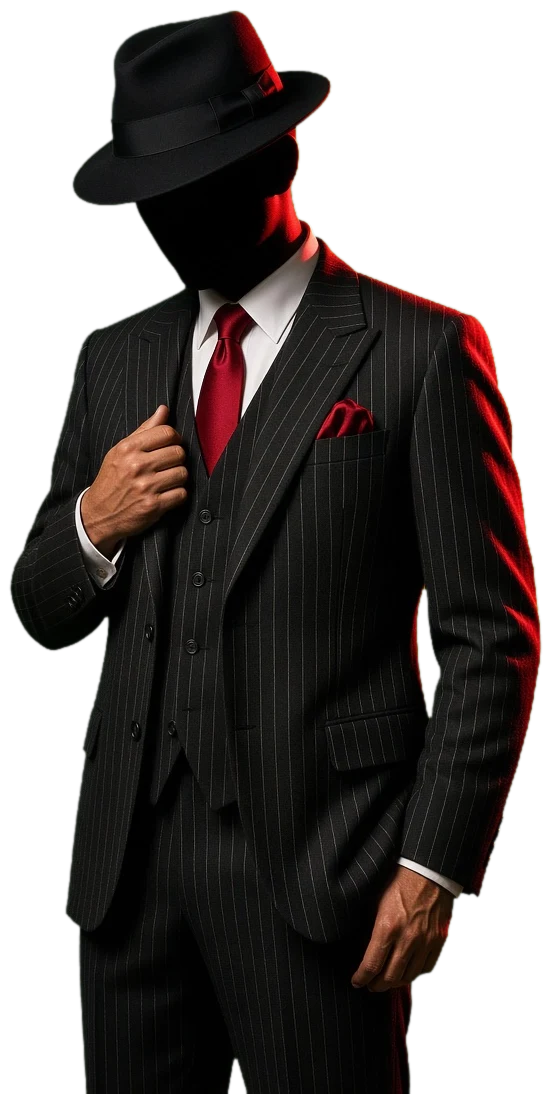
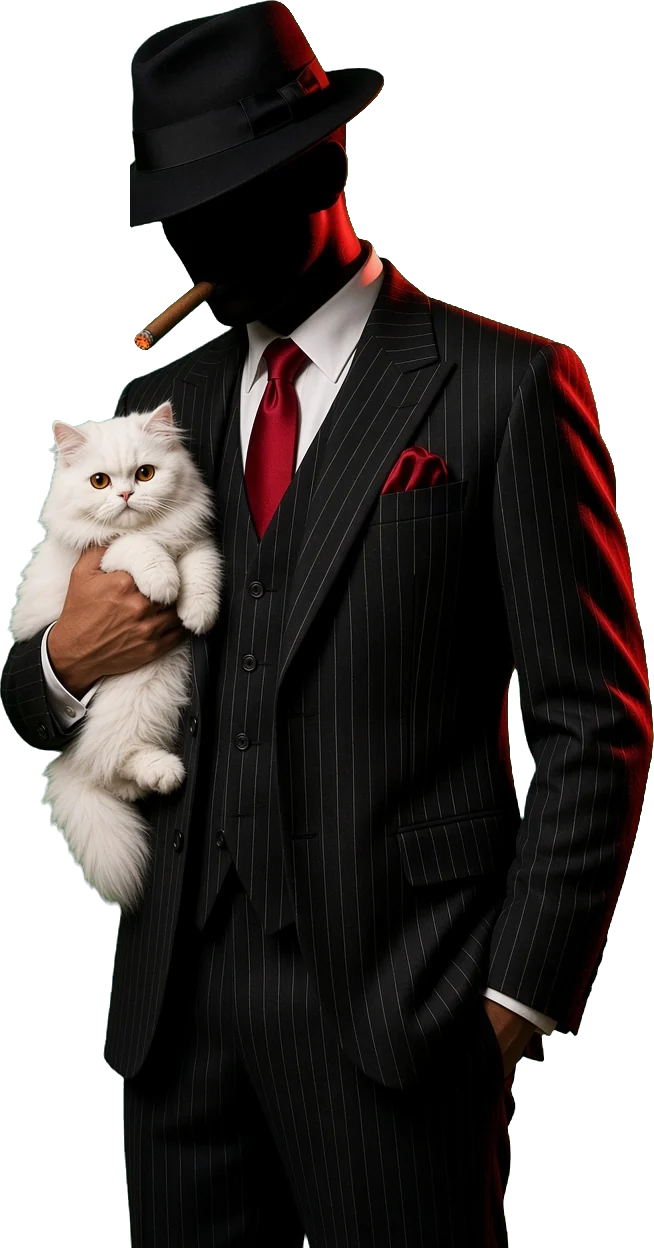
Lorenzo with cigar + Persian cat (ember, smoke, blink); Lorenzo leads the walk-in and unlocks the golden wardrobe; panel clears the host

diff --git a/src/three/Experience.tsx b/src/three/Experience.tsx
@@ -4,7 +4,7 @@ import { MeshReflectorMaterial, PerformanceMonitor } from '@react-three/drei'
 import { EffectComposer, Bloom, Noise, Vignette, DepthOfField } from '@react-three/postprocessing'
 import { BlendFunction, type DepthOfFieldEffect } from 'postprocessing'
 import * as THREE from 'three'
-import { ITEMS, STORE } from '../data'
+import { ITEMS, STORE, TAILOR } from '../data'
 import { rig, easeInOut, easeOut, clamp01, smooth, WALK_MS, walkTime } from '../rig'
 
 /* ---------------- world constants ---------------- */
@@ -363,7 +363,7 @@ function ScreenFX() {
    all the way, so the stairwell drops straight onto the rail where the wardrobe starts. */
 const SHOP_Y = 5.2, EYE = 1.5, DOOR_Z = 22, WARD_Z = 11.8, STAIR_END = 4.6, STEPS = 12
 const walkFog = { shop: new THREE.Color('#1c0507'), gold: new THREE.Color('#1d1406'), vault: new THREE.Color('#050303') }
-type WalkPath = { curve: THREE.CatmullRomCurve3; total: number; dist: (t: number) => number; key: number }
+type WalkPath = { curve: THREE.CatmullRomCurve3; total: number; dist: (t: number) => number; lead: (t: number) => number; key: number }
 function makeWalk(endY: number): WalkPath {
   const S = SHOP_Y, E = EYE
   const pts = [
@@ -376,9 +376,51 @@ function makeWalk(endY: number): WalkPath {
   const at = (k: number) => L[Math.round((k / (pts.length - 1)) * 400)]
   /* distance along the path over time: ease out of the doorway, walk the aisle, slow while the wardrobe opens,
      step through, take the stairs, glide onto the first anchor */
-  const dist = spline([[0, 0], [1.4, at(1) * 0.75], [3.2, at(3)], [4.15, at(4) + 0.5], [4.9, at(5)], [7.25, at(7)], [WALK_MS / 1000, total]])
-  return { curve, total, dist, key: endY }
+  /* Lorenzo walks a couple of metres ahead; the camera follows at a walking pace, slows at the foot of the stairs,
+     and stops short of the golden wardrobe while he unlocks it, then glides onto the first anchor */
+  const dist = spline([[0, 0], [1.6, at(1) * 0.7], [3.6, at(3)], [4.9, at(4) + 0.4], [5.8, at(5)], [8.6, at(7)], [10.0, total - 1.7], [11.4, total - 1.25], [WALK_MS / 1000, total]])
+  /* how far ahead of the camera he is (along the same path, then on past its end to the wardrobe) */
+  const lead = spline([[0, 1.3], [1.3, 2.2], [2.4, 2.5], [8.6, 2.5], [10.0, 5.3]])
+  return { curve, total, dist, lead, key: endY }
 }
+/* Lorenzo, seen from behind with the cat in his arm: a keyed, generated walk cycle (24 frames, 2 steps) in one atlas,
+   plus a 25th frame raising the key. Frames are picked by distance walked so his feet don't slide, and blended for smoothness.
+   He is lit by the room he is in: crimson in the shop, gold on the stairs, rim-lit by the wardrobe when it opens. */
+const LEAD = { cols: 5, rows: 5, n: 24, key: 24, aspect: 240 / 460, h: 1.86, stride: 1.5 }
+const SPRITE_VS = `varying vec2 vUv;
+#include <fog_pars_vertex>
+void main(){ vUv = uv; vec4 mvPosition = modelViewMatrix * vec4(position, 1.0); gl_Position = projectionMatrix * mvPosition;
+#include <fog_vertex>
+}`
+const SPRITE_FS = `uniform sampler2D map; uniform vec2 uCell, uA, uB; uniform float uMix, uO, uRimI; uniform vec3 uTint, uRim; varying vec2 vUv;
+#include <fog_pars_fragment>
+vec4 at(vec2 o){ return texture2D(map, o + clamp(vUv, 0.003, 0.997) * uCell); }
+float al(vec2 o, vec2 d){ return texture2D(map, o + clamp(vUv + d, 0.003, 0.997) * uCell).a; }
+void main(){
+  vec4 a = at(uA), b = at(uB); vec4 c = mix(a, b, uMix);
+  if (c.a < 0.04) discard;
+  vec2 d = vec2(0.014, 0.007);
+  float e = c.a - min(min(al(uA, vec2(d.x, 0.)), al(uA, vec2(-d.x, 0.))), min(al(uA, vec2(0., d.y)), al(uA, vec2(0., -d.y))));
+  vec3 col = c.rgb * uTint + uRim * uRimI * clamp(e * 1.2, 0.0, 1.0);
+  gl_FragColor = vec4(col, c.a * uO);
+  #include <fog_fragment>
+  #include <colorspace_fragment>
+}`
+function leadMat(onLoad: (t: THREE.Texture) => void) {
+  const tex = new THREE.TextureLoader().load(TAILOR.walk, onLoad)
+  tex.colorSpace = THREE.SRGBColorSpace; tex.anisotropy = 4; tex.generateMipmaps = true; tex.minFilter = THREE.LinearMipmapLinearFilter
+  const u = THREE.UniformsUtils.merge([THREE.UniformsLib.fog, {
+    uCell: { value: new THREE.Vector2(1 / LEAD.cols, 1 / LEAD.rows) }, uA: { value: new THREE.Vector2() }, uB: { value: new THREE.Vector2() },
+    uMix: { value: 0 }, uO: { value: 1 }, uRimI: { value: 0 }, uTint: { value: new THREE.Color(1, 1, 1) }, uRim: { value: new THREE.Color(1, 0.7, 0.35) }
+  }])
+  u.map = { value: tex }
+  return new THREE.ShaderMaterial({ uniforms: u, vertexShader: SPRITE_VS, fragmentShader: SPRITE_FS, transparent: true, depthWrite: false, fog: true })
+}
+const cellOff = (i: number, v: THREE.Vector2) => v.set((i % LEAD.cols) / LEAD.cols, 1 - (Math.floor(i / LEAD.cols) + 1) / LEAD.rows)
+/* floor height in the walk's local frame: shop, stair slope, vault */
+const floorAt = (z: number) => z >= WARD_Z ? SHOP_Y : z <= STAIR_END ? 0 : SHOP_Y * (z - STAIR_END) / (WARD_Z - STAIR_END) - SHOP_Y / STEPS * 0.5
+/* the golden wardrobe in the vault: where he stops, when it unlocks and opens */
+const VAULT_DOOR_Z = -8.4, STOP_PAST = 3.55, KEY_AT = 10.15, OPEN_AT = 10.95, OPEN_S = 1.15, INTO_LIGHT = 11.35
 function quad(a: number[], b: number[], c: number[], d: number[], uvRepeat = [1, 1]) {
   const g = new THREE.BufferGeometry()
   g.setAttribute('position', new THREE.Float32BufferAttribute([...a, ...b, ...c, ...a, ...c, ...d], 3))
@@ -411,8 +453,9 @@ function suitGeo() {
 }
 const SUIT_COLOURS = ['#1d2a44', '#2b2b2e', '#141416', '#4a1420', '#7d5f3c', '#bdb197', '#55565a', '#1e3328', '#3b2a20', '#2a1f3a']
 
-function Walk({ low }: { low: boolean }) {
+function Walk({ low, path }: { low: boolean; path: { current: WalkPath | null } }) {
   const g = useRef<THREE.Group>(null)
+  const ready = useRef<((t: THREE.Texture) => void) | null>(null)
   const mats = useMemo(() => {
     const marble = marbleTexture(); marble.repeat.set(2, 3)
     const marbleStair = marbleTexture(); marbleStair.repeat.set(1.2, 0.3)
@@ -444,7 +487,15 @@ function Walk({ low }: { low: boolean }) {
       pool: glowMat(new THREE.Color(1.0, 0.5, 0.3)),
       goldGlow: glowMat(new THREE.Color(1.0, 0.72, 0.32)),
       spill: glowMat(new THREE.Color(1.0, 0.7, 0.3)),
-      cone: coneMat()
+      cone: coneMat(),
+      vaultGold: new THREE.MeshBasicMaterial({ map: brassTexture(), color: new THREE.Color(2.3, 1.75, 0.85) }),
+      seam: new THREE.MeshBasicMaterial({ color: new THREE.Color(4, 2.6, 0.9), toneMapped: false, transparent: true, opacity: 0 }),
+      flood: glowMat(new THREE.Color(1.0, 0.74, 0.34)),
+      glint: glowMat(new THREE.Color(1.0, 0.85, 0.5)),
+      shadow: new THREE.ShaderMaterial({ transparent: true, depthWrite: false, uniforms: { uO: { value: 0.5 } },
+        vertexShader: `varying vec2 vUv; void main(){ vUv = uv; gl_Position = projectionMatrix * modelViewMatrix * vec4(position,1.0); }`,
+        fragmentShader: `uniform float uO; varying vec2 vUv; void main(){ float r = length((vUv - 0.5) * 2.0); gl_FragColor = vec4(0.0, 0.0, 0.0, uO * pow(1.0 - smoothstep(0.0, 1.0, r), 1.6)); }` }),
+      lead: leadMat(t => ready.current?.(t))
     }
   }, [])
   const built = useMemo(() => {
@@ -551,7 +602,30 @@ function Walk({ low }: { low: boolean }) {
     add(new THREE.Mesh(quad([-sw, 3.2, STAIR_END], [sw, 3.2, STAIR_END], [sw, 3.2, 0], [-sw, 3.2, 0]), m.dark))
     /* the vault's light spilling up the stairwell */
     const spill = new THREE.Mesh(new THREE.PlaneGeometry(1, 1), m.spill); spill.position.set(0, 1.4, -0.6); spill.scale.set(3.2, 3.2, 1); add(spill)
-    return { root, gl, gr, wl, wr, lights, wardGlow, spill }
+    /* the golden wardrobe that closes off the vault: two tall gilded doors, a lock at the seam, light behind them */
+    const VW = 4.3, VH = 5.6, VZ = VAULT_DOOR_Z
+    const flood = new THREE.Mesh(new THREE.PlaneGeometry(1, 1), m.flood); flood.position.set(0, 1.9, VZ - 0.5); flood.scale.set(11, 7.5, 1); add(flood)
+    const mkVault = (side: number) => {
+      const hinge = new THREE.Group(); hinge.position.set(-side * VW, 0, VZ)
+      const d = new THREE.Mesh(new THREE.BoxGeometry(VW, VH, 0.12), m.vaultGold); d.position.set(side * VW / 2, VH / 2, 0); hinge.add(d)
+      for (const [py, ph] of [[1.55, 2.3], [4.05, 2.1]]) {
+        const fr = new THREE.Mesh(new THREE.PlaneGeometry(VW - 0.7, ph), m.goldDim); fr.position.set(side * VW / 2, py, 0.062); hinge.add(fr)
+        const inn = new THREE.Mesh(new THREE.PlaneGeometry(VW - 0.84, ph - 0.14), m.vaultGold); inn.position.set(side * VW / 2, py, 0.064); hinge.add(inn)
+      }
+      const h = new THREE.Mesh(new THREE.BoxGeometry(0.05, 0.55, 0.06), m.gold); h.position.set(side * 0.16, 1.45, 0.09); hinge.add(h)
+      add(hinge); return hinge
+    }
+    const vl = mkVault(1), vr = mkVault(-1)
+    box(VW * 2 + 0.5, 0.36, 0.3, 0, VH + 0.18, VZ, m.door); box(VW * 2 + 0.6, 0.03, 0.04, 0, VH + 0.02, VZ + 0.16, m.goldDim)
+    for (const sx of [-1, 1]) box(0.3, VH + 0.36, 0.3, sx * (VW + 0.15), (VH + 0.36) / 2, VZ, m.door)
+    const seam = new THREE.Mesh(new THREE.PlaneGeometry(0.035, VH - 0.1), m.seam); seam.position.set(0, VH / 2, VZ + 0.07); add(seam)
+    const lock = box(0.16, 0.22, 0.05, 0, 1.45, VZ + 0.09, m.gold)
+    const glint = new THREE.Mesh(new THREE.PlaneGeometry(1, 1), m.glint); glint.position.set(0, 1.45, VZ + 0.2); glint.scale.set(0.7, 0.7, 1); add(glint)
+    /* Lorenzo + a soft contact shadow */
+    const geo = new THREE.PlaneGeometry(LEAD.h * LEAD.aspect, LEAD.h); geo.translate(0, LEAD.h / 2, 0)
+    const lead = new THREE.Mesh(geo, m.lead); lead.renderOrder = 5; lead.frustumCulled = false; add(lead)
+    const shadow = new THREE.Mesh(new THREE.PlaneGeometry(0.9, 0.5), m.shadow); shadow.rotation.x = -Math.PI / 2; add(shadow)
+    return { root, gl, gr, wl, wr, lights, wardGlow, spill, vl, vr, flood, seam, lock, glint, lead, shadow }
   }, [mats])
   useFrame(({ camera }) => {
     const t = walkTime()
@@ -561,9 +635,10 @@ function Walk({ low }: { low: boolean }) {
     const w = world()
     g.current!.position.set(camXAt(0, w), w.floorY, 0)
     const b = built
-    const gOpen = easeInOut(clamp01((t - 0.05) / 1.1)) * 1.45
+    const gOpen = easeInOut(clamp01(t / 0.95)) * 1.45
     b.gl.rotation.y = gOpen; b.gr.rotation.y = -gOpen
-    const wOpen = easeInOut(clamp01((t - 3.0) / 1.25))
+    /* the hidden wardrobe swings open as he reaches it */
+    const wOpen = easeInOut(clamp01((t - 2.4) / 1.2))
     b.wl.rotation.y = -wOpen * 1.75; b.wr.rotation.y = wOpen * 1.75
     /* glows fade as the camera reaches them, so we never fly through a sheet of light */
     const cz = camera.position.z
@@ -574,10 +649,58 @@ function Walk({ low }: { low: boolean }) {
     mats.warmGlow.uniforms.uI.value = 0.4 + 0.04 * Math.sin(t * 7.0)
     mats.pool.uniforms.uI.value = 0.12
     mats.cone.uniforms.uI.value = 0.55
+    /* the golden wardrobe: a key, a click of light at the lock, light through the seam, the doors open, gold floods out */
+    const vOpen = easeInOut(clamp01((t - OPEN_AT) / OPEN_S))
+    /* they swing inward, away from him, into the vault */
+    b.vl.rotation.y = vOpen * 1.6; b.vr.rotation.y = -vOpen * 1.6
+    const turn = smooth(KEY_AT + 0.35, KEY_AT + 0.6, t) * (1 - smooth(KEY_AT + 0.75, OPEN_AT + 0.2, t))
+    mats.glint.uniforms.uI.value = 0.9 * turn; b.glint.visible = turn > 0.002
+    mats.seam.opacity = smooth(KEY_AT + 0.45, OPEN_AT, t) * (1 - vOpen); b.seam.visible = mats.seam.opacity > 0.01
+    const flood = smooth(OPEN_AT - 0.1, OPEN_AT + 0.55, t) * (1 - 0.7 * smooth(OPEN_AT + 0.7, WALK_MS / 1000, t))
+    mats.flood.uniforms.uI.value = 0.55 * flood; b.flood.visible = flood > 0.002
+    leader(t, camera)
     void low
   })
+  /* where Lorenzo is and which frame he shows */
+  const lv = useMemo(() => ({ p: new THREE.Vector3(), c: new THREE.Vector3(), e: new THREE.Vector3(), tint: new THREE.Color(), shop: new THREE.Color(0.78, 0.5, 0.5), stair: new THREE.Color(0.85, 0.7, 0.52), vault: new THREE.Color(0.5, 0.42, 0.34), gold: new THREE.Color(1.0, 0.72, 0.36) }), [])
+  const leader = (t: number, camera: THREE.Camera) => {
+    const P = path.current, b = built, m = mats.lead.uniforms
+    if (!P) { b.lead.visible = false; b.shadow.visible = false; return }
+    const stop = P.total + STOP_PAST
+    /* after the doors open he walks on into the light */
+    const on = smooth(INTO_LIGHT, WALK_MS / 1000 - 0.3, t)
+    let s = Math.min(P.dist(t) + P.lead(t), stop) + on * 1.7
+    if (s <= P.total) P.curve.getPointAt(clamp01(s / P.total), lv.p)
+    else { P.curve.getPointAt(1, lv.p); lv.p.z -= s - P.total }
+    /* step aside to the left of the seam to work the lock */
+    const aside = smooth(P.total + 0.8, stop, s) * (1 - on)
+    const x = lv.p.x - 0.34 * aside, z = lv.p.z, y = floorAt(z)
+    b.lead.position.set(x, y, z); b.shadow.position.set(x + 0.05, y + 0.012, z + 0.06)
+    /* face the camera (around y only) */
+    lv.c.copy(camera.position).sub(g.current!.position)
+    b.lead.rotation.y = Math.atan2(lv.c.x - x, lv.c.z - z)
+    /* frames by distance walked; the key frame while he stands at the lock */
+    const ph = (s / LEAD.stride) * LEAD.n, f0 = Math.floor(ph), fr = ph - f0
+    const keyed = smooth(stop - 0.25, stop, Math.min(P.dist(t) + P.lead(t), stop)) * (1 - smooth(INTO_LIGHT - 0.15, INTO_LIGHT + 0.2, t))
+    cellOff(((f0 % LEAD.n) + LEAD.n) % LEAD.n, m.uA.value)
+    if (keyed > 0.001) { cellOff(LEAD.key, m.uB.value); m.uMix.value = keyed }
+    else { cellOff((((f0 + 1) % LEAD.n) + LEAD.n) % LEAD.n, m.uB.value); m.uMix.value = fr }
+    /* matched lighting: crimson shop, warm stairwell, near-silhouette in the vault, gold rim when the wardrobe opens */
+    const stair = smooth(WARD_Z + 0.5, WARD_Z - 2.5, z), vault = smooth(STAIR_END + 1, STAIR_END - 2, z)
+    lv.tint.copy(lv.shop).lerp(lv.stair, stair).lerp(lv.vault, vault)
+    m.uTint.value.copy(lv.tint)
+    const open = smooth(OPEN_AT - 0.1, OPEN_AT + 0.6, t)
+    m.uRimI.value = 0.22 + 0.2 * stair + 0.85 * open + 0.3 * mats.seam.opacity
+    m.uRim.value.setRGB(1.0, 0.3, 0.28).lerp(lv.gold, Math.max(stair, open))
+    /* fade in from the doorway (never pops in front of the lens), out into the light at the end */
+    const near = smooth(0.7, 1.3, lv.c.set(x, y + 1.5, z).distanceTo(lv.e.copy(camera.position).sub(g.current!.position)))
+    m.uO.value = near * (1 - smooth(INTO_LIGHT + 0.35, WALK_MS / 1000 - 0.35, t))
+    b.lead.visible = m.uO.value > 0.01
+    mats.shadow.uniforms.uO.value = 0.55 * m.uO.value * (1 - open * 0.5); b.shadow.visible = b.lead.visible
+  }
   /* compile every shader up front (entry, walk, vault), so no scene hitches the first time it appears */
   const { gl, scene, camera } = useThree()
+  useEffect(() => { ready.current = t => { try { gl.initTexture(t) } catch { /* uploaded on first use */ } }; const t = mats.lead.uniforms.map.value as THREE.Texture; if (t.image) ready.current(t) }, [gl, mats])
   useEffect(() => {
     const id = window.setTimeout(() => {
       const grp = g.current; if (!grp) return
@@ -830,7 +953,7 @@ export default function Experience({ onFail, paused = false }: { onFail: (why: s
       <Atmosphere path={path} />
       <Room low={low} res={T_.reflect} />
       {ITEMS.map((_, i) => <Piece key={i} i={i} />)}
-      <Walk low={low} />
+      <Walk low={low} path={path} />
       <Dust />
       <Storefront />
       <Gate />

diff --git a/src/styles.css b/src/styles.css
@@ -267,10 +267,28 @@ canvas.gl, .gl{position:fixed!important;inset:0;width:100%!important;height:100%
 .sf-shade{position:absolute;inset:0;pointer-events:none;
   background:linear-gradient(to top, rgba(3,2,2,.92), rgba(3,2,2,.35) 34%, transparent 55%), linear-gradient(to bottom, rgba(3,2,2,.65), transparent 16%),
   radial-gradient(ellipse 90% 80% at 50% 45%, transparent 50%, rgba(3,2,2,.7) 100%)}
-.sf-host{position:absolute;right:-2vw;bottom:0;z-index:2;height:min(86vh,980px);aspect-ratio:552/1094;
+.sf-host{position:absolute;right:-2vw;bottom:0;z-index:2;height:min(86vh,980px);aspect-ratio:654/1248;
   transform:translate3d(calc(var(--px) * 14px), calc(var(--py) * 6px), 0);animation:hostIn 1.2s cubic-bezier(.2,.7,.2,1) var(--t-host) both}
-.sf-host img{width:100%;height:100%;object-fit:contain;object-position:bottom;transform-origin:50% 100%;
-  filter:drop-shadow(-6px 0 18px rgba(255,42,58,.28)) drop-shadow(0 0 2px rgba(255,42,58,.5)) brightness(.92);animation:breathe 5.6s ease-in-out infinite}
+.host-fig{position:absolute;inset:0;transform-origin:50% 100%;animation:breathe 5.6s ease-in-out infinite}
+.sf-host img{width:100%;height:100%;object-fit:contain;object-position:bottom;
+  filter:drop-shadow(-6px 0 18px rgba(255,42,58,.28)) drop-shadow(0 0 2px rgba(255,42,58,.5)) brightness(.92)}
+/* the cat blinks now and then (eyelids are fur-coloured ovals that close over the eyes) */
+.cat-lid{position:absolute;width:3.7%;height:1.75%;border-radius:50%;transform:scaleY(0);transform-origin:50% 0;
+  background:radial-gradient(ellipse at 50% 90%, #cfc4b9, #e4dad1 60%, #ddd2c8);box-shadow:0 1px 0 rgba(60,40,30,.55);animation:catBlink 7.3s ease-in-out 3.2s infinite}
+.cat-lid.l{left:13.45%;top:37.55%}
+.cat-lid.r{left:20.35%;top:36.9%;animation-delay:3.24s}
+@keyframes catBlink{0%,93%,100%{transform:scaleY(0)}95%,96.4%{transform:scaleY(1)}97.6%{transform:scaleY(.15)}}
+/* the cigar: a slow ember pulse, and smoke curling up and drifting off */
+.cig-ember{position:absolute;left:21.71%;top:27.32%;width:2.6%;aspect-ratio:1;translate:-50% -50%;border-radius:50%;mix-blend-mode:screen;
+  background:radial-gradient(circle, rgba(255,236,170,.95), rgba(255,120,30,.75) 30%, rgba(255,60,10,.25) 58%, transparent 72%);animation:ember 3.1s ease-in-out infinite}
+.cig-ember::after{content:"";position:absolute;inset:-160%;border-radius:50%;background:radial-gradient(circle, rgba(255,110,30,.32), transparent 62%);animation:inherit}
+@keyframes ember{0%,100%{opacity:.62;scale:.85}38%{opacity:1;scale:1.12}52%{opacity:.86;scale:1}70%{opacity:.95;scale:1.06}}
+.cig-smoke{position:absolute;left:21.2%;top:26.4%;width:0;height:0}
+.cig-smoke i{position:absolute;left:0;top:0;width:clamp(10px,2.2vh,22px);aspect-ratio:1;border-radius:50%;opacity:0;translate:-50% -50%;
+  background:radial-gradient(circle, rgba(220,214,210,.34), rgba(200,196,192,.12) 45%, transparent 70%);
+  animation:smoke 6.5s linear calc(var(--k) * -1.3s) infinite}
+@keyframes smoke{0%{opacity:0;transform:translate(0,0) scale(.5)}12%{opacity:.75}
+  35%{transform:translate(-.9vh,-6vh) scale(1.5)}60%{opacity:.4;transform:translate(.6vh,-12vh) scale(2.4)}100%{opacity:0;transform:translate(-1.6vh,-20vh) scale(3.6)}}
 @keyframes hostIn{from{opacity:0;translate:0 22%}to{opacity:1;translate:0 0}}
 @keyframes breathe{0%,100%{transform:scale(1,1)}45%{transform:scale(1.004,1.01)}70%{transform:scale(1.002,1.005)}}
 .sf-nav{position:absolute;left:0;right:0;top:0;z-index:4;display:flex;align-items:center;justify-content:space-between;
@@ -322,11 +340,13 @@ canvas.gl, .gl{position:fixed!important;inset:0;width:100%!important;height:100%
   .sf-hero{left:6vw;right:auto;max-width:620px;bottom:9vh}
   .sf-sub{display:block}
   .sf-kicker{font-size:.7rem}
-  .sf-panel{left:auto;right:calc(4vw + min(30vh,330px));bottom:auto;top:37vh;width:min(36vw,470px);padding:20px 22px 18px}
+  /* the panel sits just left of Lorenzo, so the cat and the cigar stay in view */
+  .sf-panel{left:auto;right:calc(1vw + min(86vh,980px) * .5);bottom:auto;top:31vh;width:min(34vw,450px);padding:20px 22px 18px}
   .sf-line{font-size:clamp(1.25rem,1.6vw,1.6rem)}
   .sf-host{right:1vw}
   .tailor .skip{top:auto;bottom:26px;right:26px}
 }
+@media (min-width:960px) and (max-width:1279px){ .sf-panel{top:33vh;width:30vw} .sf-hero{max-width:34vw} .sf-title{font-size:4.4vw} .sf-kicker{white-space:nowrap;font-size:.6rem} .sf-sub{display:none} }
 
 /* premium: through the glass doors, past the slats, into the private room; the wardrobe opens on gold */
 .sf-slats,.sf-red,.sf-room,.t-gold{position:absolute;inset:0;pointer-events:none;opacity:0}
@@ -495,3 +515,5 @@ canvas.gl, .gl{position:fixed!important;inset:0;width:100%!important;height:100%
 /* the gate as plain HTML, painted before any script runs (React takes over with the same markup) */
 .re #boot-gate{display:none}
 .fps-debug{position:fixed;left:8px;bottom:8px;z-index:200;padding:4px 8px;border-radius:6px;background:rgba(0,0,0,.72);color:#9f9;font:12px/1.3 ui-monospace,monospace;pointer-events:none;white-space:nowrap}
+
+@media (prefers-reduced-motion: reduce){ .cig-ember,.cig-ember::after,.cat-lid,.host-fig{animation:none} .cat-lid{transform:scaleY(0)} .cig-ember{opacity:.85} }

diff --git a/src/Tailor.tsx b/src/Tailor.tsx
@@ -78,7 +78,15 @@ export default function Tailor({ phase, quick, reduced, onChoose, onNav }: {
       </div>
       <div className="sf-shade" aria-hidden="true" />
 
-      <div className="sf-host" aria-hidden="true"><img src={TAILOR.host} alt="" width={552} height={1094} decoding="async" /></div>
+      {/* Lorenzo: cigar ember + smoke and the cat's blink are their own small layers over the photo */}
+      <div className="sf-host" aria-hidden="true">
+        <div className="host-fig">
+          <img src={TAILOR.host} srcSet={TAILOR.hostSet} sizes="(max-width:959px) 260px, 460px" alt="" width={654} height={1248} decoding="async" />
+          <i className="cat-lid l" /><i className="cat-lid r" />
+          <i className="cig-ember" />
+          {!reduced && <span className="cig-smoke">{[0, 1, 2, 3, 4].map(k => <i key={k} style={{ '--k': k } as React.CSSProperties} />)}</span>}
+        </div>
+      </div>
       {!reduced && <Rain layer="front" floor={1} />}
 
       <header className="sf-nav">

diff --git a/src/rig.ts b/src/rig.ts
@@ -1,7 +1,7 @@
 // Shared mutable state between the DOM layer and the 3D scene (no React re-renders per frame).
 export type View = 'gate' | 'transition' | 'tailor' | 'walk' | 'wardrobe' | 'grid'
 export const TRANSITION_MS = 2500
-export const WALK_MS = 9000    // premium: through the shop, the hidden wardrobe and down the stairs into the vault
+export const WALK_MS = 13000   // premium: Lorenzo leads through the shop, the hidden wardrobe, down the stairs, and unlocks the golden wardrobe
 export const rig = {
   view: 'gate' as View,
   gateAt: performance.now(),

diff --git a/src/data.ts b/src/data.ts
@@ -127,5 +127,7 @@ export function greeting(d = new Date()) {
 }
 export const TAILOR = {
   host: `${base}tailor/lorenzo.webp`,
+  hostSet: `${base}tailor/lorenzo-436.webp 436w, ${base}tailor/lorenzo.webp 654w`,
+  walk: `${base}walk/lorenzo-walk.webp`,
   curtain: `${base}tailor/curtain-tall.webp`
 }
